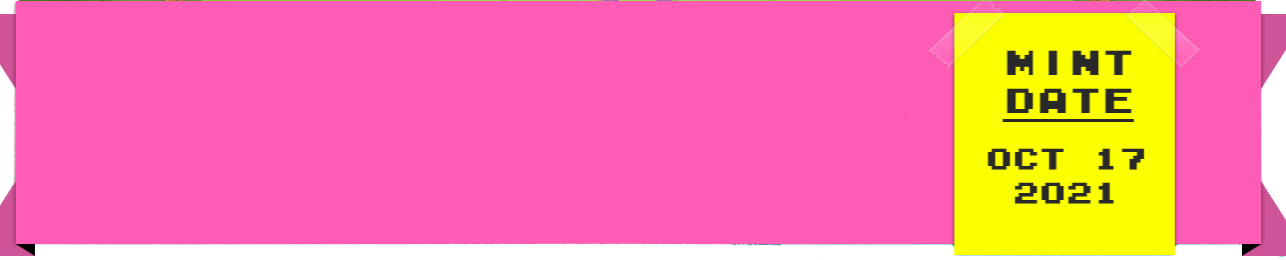
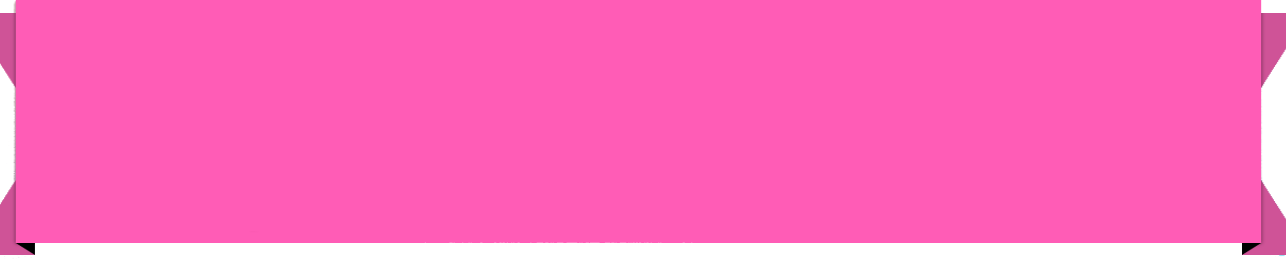
ui some problems fixed

diff --git a/src/pages/index.tsx b/src/pages/index.tsx
@@ -120,15 +120,26 @@ const Home = () => {
           </div>
         </div>
 
-        <div className="ribbon hidden lg:flex flex-col space-y-2">
-          <p className="text-3xl text-white w-6/12 ml-60 mt-5 amiga-font">
-            THE STORY . . .
-          </p>
-          <p className="text-sm text-white w-6/12 ml-60 mt-5 leading-4">
-            TamaDodgy is inspired by the Millennial childhood Tamagochi Egg Watch handheld digital pet that was created in Japan by Akihiro Yokoi in 1997. They are the spawn of what happens when you have a bunch of 1997 pet creatures mixed with the 2021dodgy pixelated punk world. This lot are looking for a new home and are up for adoption. They were originally going to Ethereum, but they were too dodgy for Vitalik. So the TamaDodgy decided to spawn in the more dodgy island - Solana, the blockchain of every dodgy pixel's dream, by the extra dodgy Sam.
-          </p>
-          <p className="text-sm text-white w-6/12 ml-60 mt-5 leading-4">
-            All they need is the right person to adopt them and give them all the dodgy love and care. These TamaDodgy may be dodgy but they have big dreams and their properties uniquely reflect who they are and promise to reward their owners handsomely.          </p>
+        <div className="ribbon hidden lg:flex lg:flex-row relative">
+          <div className="flex flex-col space-y-3 w-6/12 ml-60 mt-5">
+            <p className="text-3xl text-white amiga-font">
+              THE STORY .....
+            </p>
+            <div className="h-40 overflow-y-auto flex flex-col space-y-1">
+              <p className="text-sm text-white leading-4">
+                TamaDodgy is inspired by the Millennial childhood Tamagochi Egg Watch handheld digital pet that was created in Japan by Akihiro Yokoi in 1997. They are the spawn of what happens when you have a bunch of 1997 pet creatures mixed with the 2021dodgy pixelated punk world. This lot are looking for a new home and are up for adoption. They were originally going to Ethereum, but they were too dodgy for Vitalik. So the TamaDodgy decided to spawn in the more dodgy island - Solana, the blockchain of every dodgy pixel's dream, by the extra dodgy Sam.
+              </p>
+              <p className="text-sm text-white leading-4">
+                All they need is the right person to adopt them and give them all the dodgy love and care. These TamaDodgy may be dodgy but they have big dreams and their properties uniquely reflect who they are and promise to reward their owners handsomely.
+              </p>
+            </div>
+          </div>
+          <div className="start-date-badge flex flex-col space-y-1 justify-center items-center relative ml-16 top-5">
+            <p className="text-3xl text-center amiga-font">MINT</p>
+            <p className="text-3xl text-center amiga-font border-b-2 border-black">DATE</p>
+            <p className="text-2xl text-center amiga-font pt-5">OCT 17</p>
+            <p className="text-2xl text-center amiga-font">2021</p>
+          </div>
         </div>
 
         <div className="grid md:grid-cols-6 sm:grid-cols-2 gap-3 mt-10 md:ml-20 md:mr-20" id="mint">

diff --git a/src/styles/globals.css b/src/styles/globals.css
@@ -36,11 +36,24 @@ body,
   background: url('../../public/images/grass.webp') no-repeat bottom;
 }
 
+@media only screen and (max-width: 1074px) {
+  .advertise {
+    background: none;
+  }
+}
+
 .ribbon {
   background: url('../../public/images/background_ribbon.png') no-repeat;
   background-size: cover;
   width: 100%;
   height: 260px;
+}
+
+.start-date-badge {
+  background: url('../../public/images/background_start.png') no-repeat;
+  background-size: cover;
+  width: 282px;
+  height: 255px;
 }
 
 .mint-card {
